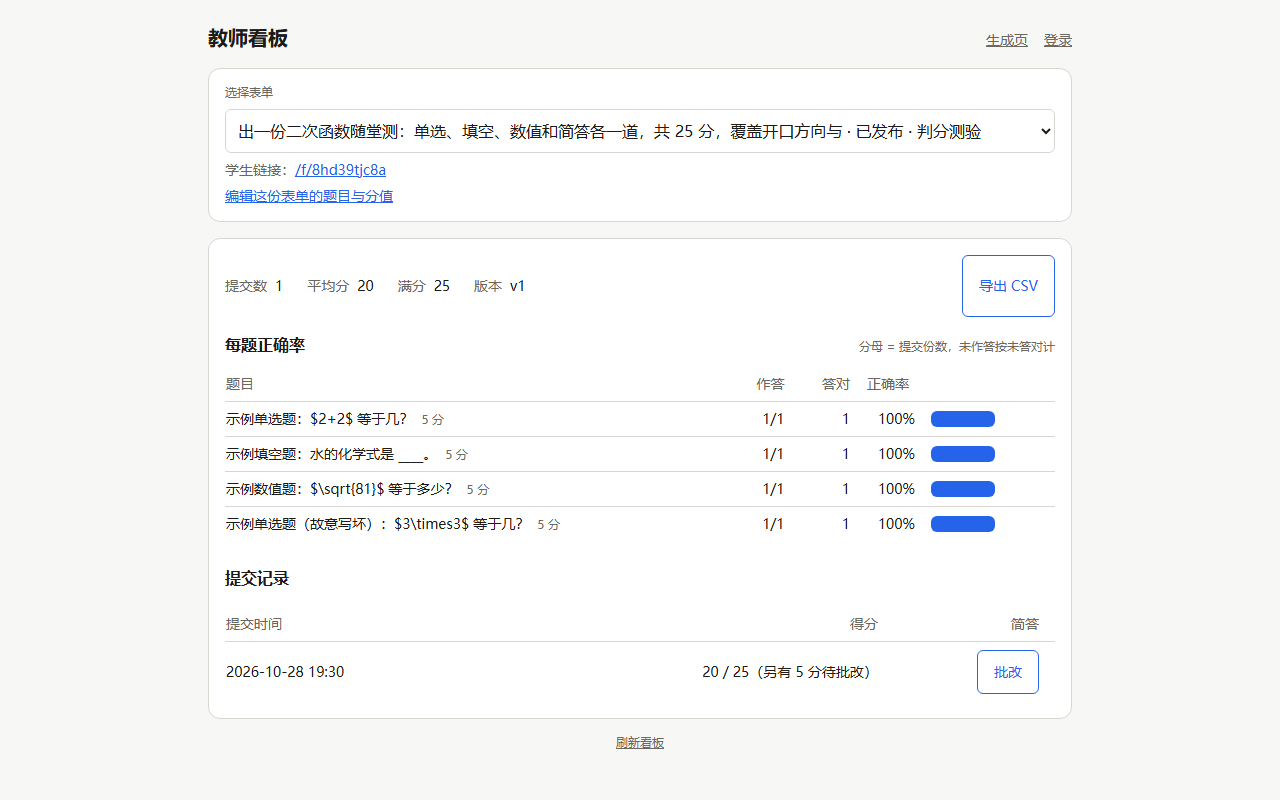
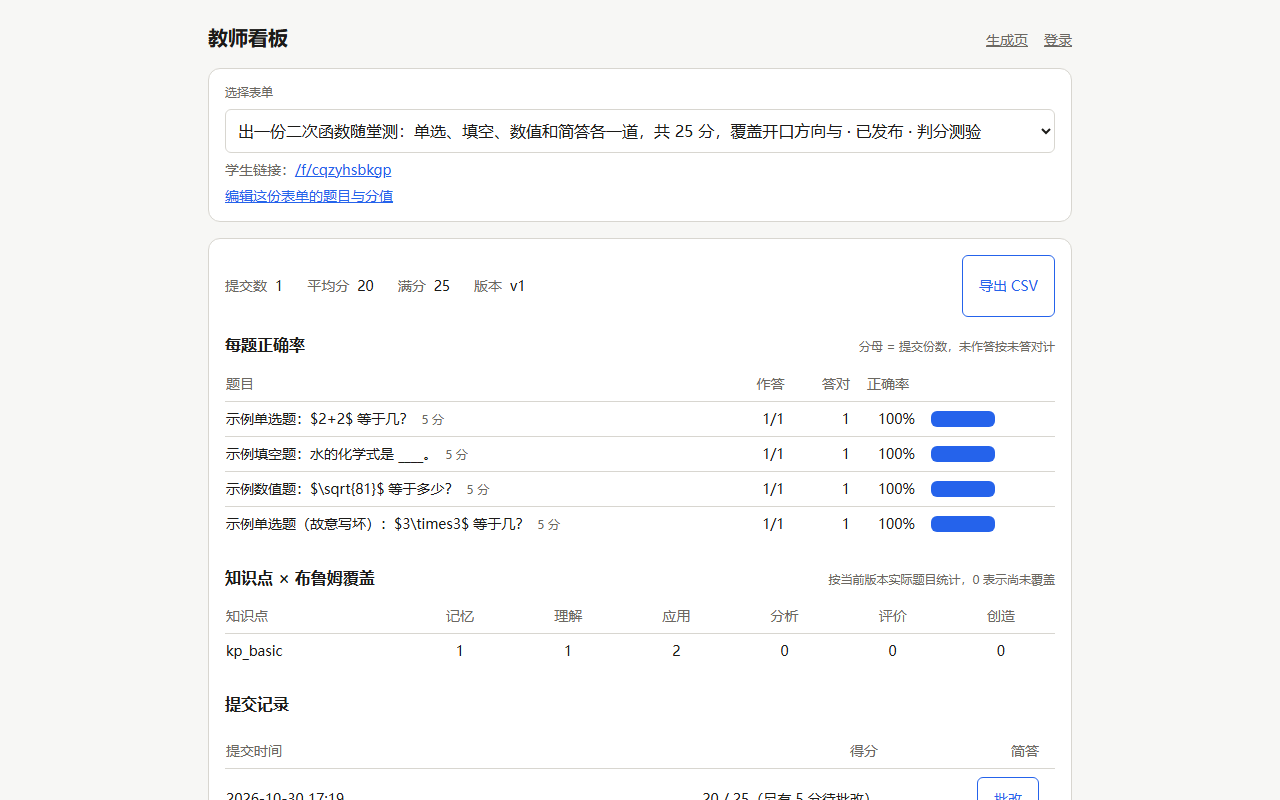
test(scripts): prove production browser loop with CSP [P13]

diff --git a/docs/evidence/README.md b/docs/evidence/README.md
@@ -39,12 +39,12 @@ node scripts/browser-closed-loop.mjs   # 期望：每步截图进本目录 + std
 
 | 项 | 值 |
 |---|---|
-| commit | `4ef6e56`（本轮脚本与十四张截图的入库提交；`git log -1 -- "docs/evidence/*.png"` 可核，README 本身的改动不算） |
+| commit | `待本轮截图与脚本修正提交后回填`（截图提交可由 `git log -1 -- "docs/evidence/*.png"` 核，README 本身的改动不算） |
 | 时间 | 2026-10-28 19:30（Asia/Shanghai） |
 | 浏览器 | Chrome 156.0.8078.47（headless=new，CDP 驱动） |
-| 服务 | `LLM_MODE=mock`；自起 server + vite，端口临时分配 |
-| 结果 | 9 步全绿：登录 → 生成（需求 → **蓝图卡 → 按蓝图生成**，时间线出现 plan 与蓝图对照）→ 发布 → 学生页作答 → 提交 `20 / 25` → 看板新增 1 行且每题正确率全 `100%` → 教师批改后 `24 / 25` → 编辑器一句话改并撤销 → 含糊需求触发 3 条追问，跳过追问后仍走蓝图确认 |
-| 截图 | `01-login.png` … `12-clarify.png` 加 `02b-plan.png` 共 14 张，全部同一次运行 |
+| 服务 | `LLM_MODE=mock`；`NODE_ENV=production` 的同源 Node 服务托管 `web/dist`，端口临时分配 |
+| 结果 | 9 步全绿：登录 → 生成（需求 → **蓝图卡 → 按蓝图生成**，时间线出现 plan 与蓝图对照）→ 发布 → 学生页作答 → 提交 `20 / 25` → 看板新增 1 行、每题正确率全 `100%` 且覆盖矩阵渲染 → 教师批改后 `24 / 25` → 编辑器一句话改并撤销 → 含糊需求触发 3 条追问，跳过追问后仍走蓝图确认；首页响应头含 `script-src 'self'` 与 `style-src-attr 'unsafe-inline'` |
+| 截图 | `01-login.png` … `12-clarify.png` 加 `02b-plan.png` 共 14 张，全部同一次生产构建运行 |
 
 第 2 步是 R-06 的界面级证据：蓝图卡上的题量/题型/分值来自 `/api/plan` 的**结构化返回**（不是前端拼的），
 点「按蓝图生成」后时间线才出现 `plan` 阶段与「蓝图对照」那行。
@@ -52,8 +52,8 @@ node scripts/browser-closed-loop.mjs   # 期望：每步截图进本目录 + std
 第 9 步是 R-05 的界面级证据：追问条数由服务端判出（不是前端写死的三连问），
 「跳过，直接生成」真的能出流——澄清是帮忙，不是关卡。
 
-R-08 的 CSP 响应头断言已进入闭环脚本，但本轮运行在 Chrome/CDP 的 `Page.enable` 前断开，
-没有生成新的截图；旧截图仍对应 `4ef6e56`，不把它们冒充成生产构建证据。
+R-08 的 CSP 响应头断言已进入闭环脚本；受限 Windows 环境下 Chrome 临时 profile 需要
+`--no-sandbox` 才能稳定保留 page target，修复后本轮生产构建闭环 9 步全绿并覆盖截图。
 
 第 3 步（发布后、还没人提交）与第 6 步（学生全答对）是 R-04 的界面级证据：
 `verify.mjs` 的 VC7 验的是接口数字，这两步验的是**看板真的把那组数字画出来了**——

diff --git a/docs/prompt-log/P13/summary.md b/docs/prompt-log/P13/summary.md
@@ -64,7 +64,7 @@
 | `pnpm.cmd build:web` | 生产构建成功；Vite 5.4.11，97 modules transformed |
 | `pnpm.cmd check` | **67 文件 / 783 用例全绿**；lint、typecheck 通过 |
 | `node scripts/verify.mjs` | **VC1–VC10 全过（10/10）** |
-| `node scripts/browser-closed-loop.mjs` | 生产构建与 Node 服务启动成功；Chrome/CDP 在 `Page.enable` 前断开，未生成新截图 |
+| `node scripts/browser-closed-loop.mjs` | **9 步全绿 / 14 张截图**；生产构建、CSP 响应头与完整浏览器链路均通过 |
 | `node scripts/secret-scan.mjs` | 工作区扫描 0 命中 |
 | `node scripts/secret-scan.mjs --history` | 全历史扫描 0 命中 |
 
@@ -75,5 +75,5 @@
 **已知边界**（不写成能力）：
 
 - CSP 由仓库内 Node 生产同源服务下发；如果最终部署前面还有反向代理或独立静态托管层，那一层仍需单独确认响应头。
-- 生产构建和首页 CSP HTTP 断言已实跑；Chrome/CDP 在 `Page.enable` 前断开，所以本轮没有新的浏览器截图或完整浏览器级绿灯。
+- 生产构建和首页 CSP HTTP 断言已实跑；受限 Windows 环境下 Chrome 临时 profile 需要 `--no-sandbox`，修复后 9 步全绿并覆盖截图。
 - `style-src-attr 'unsafe-inline'` 是为 KaTeX/渲染所需的内联样式属性单独放行，不代表允许脚本内联。

diff --git a/docs/prompt-log/P12/summary.md b/docs/prompt-log/P12/summary.md
@@ -62,7 +62,7 @@
 | `pnpm.cmd typecheck` | 4 包通过 |
 | `pnpm.cmd exec oxlint --deny-warnings` | 0 告警 / 188 文件 |
 | `node scripts/verify.mjs` | **VC1–VC10 全过（10/10）** |
-| `node scripts/browser-closed-loop.mjs` | 未完成：Chrome/CDP 在 `Page.enable` 前断开；未生成新截图 |
+| `node scripts/browser-closed-loop.mjs` | **9 步全绿 / 14 张截图**（生产构建版首次跑通） |
 | `node scripts/secret-scan.mjs` | 工作区扫描 0 命中 |
 | `node scripts/secret-scan.mjs --history` | 全历史扫描 0 命中 |
 
@@ -75,4 +75,4 @@
 - 矩阵展示的是当前版本 Schema 中已有的教学标注，不证明模型标注本身教学有效。
 - 简答题、分节或没有 `knowledgePoint` / `bloom` 的字段不会进入计数；这表示“不乱猜”，不是自动补标。
 - 覆盖矩阵点击补题仍未做，按计划继续留在延后项。
-- 浏览器级断言已写入脚本，但本轮 Chrome/CDP 在 `Page.enable` 前断开，旧截图不能作为 R-07 新证据。
+- 浏览器级断言已写入脚本；受限 Windows 环境需要 Chrome `--no-sandbox` 才能让临时 profile 的 page target 稳定保留，修复后 9 步全绿并覆盖截图。
